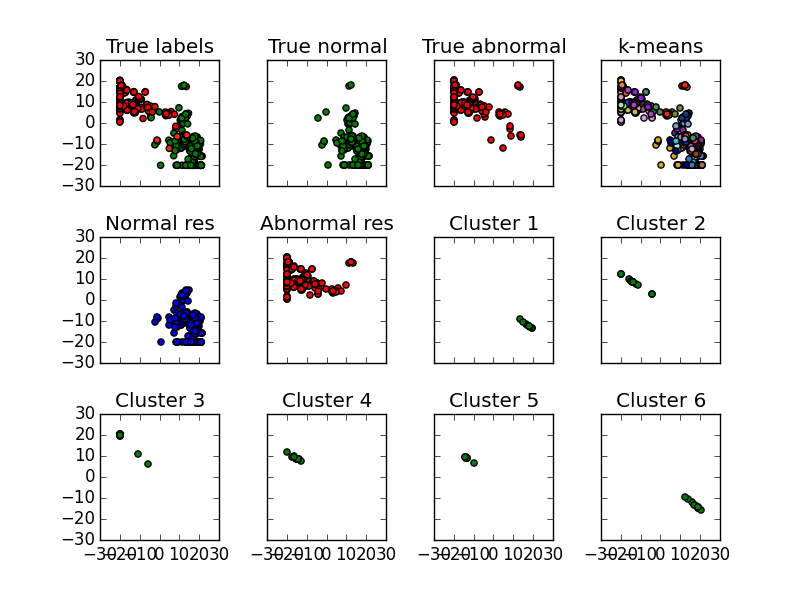
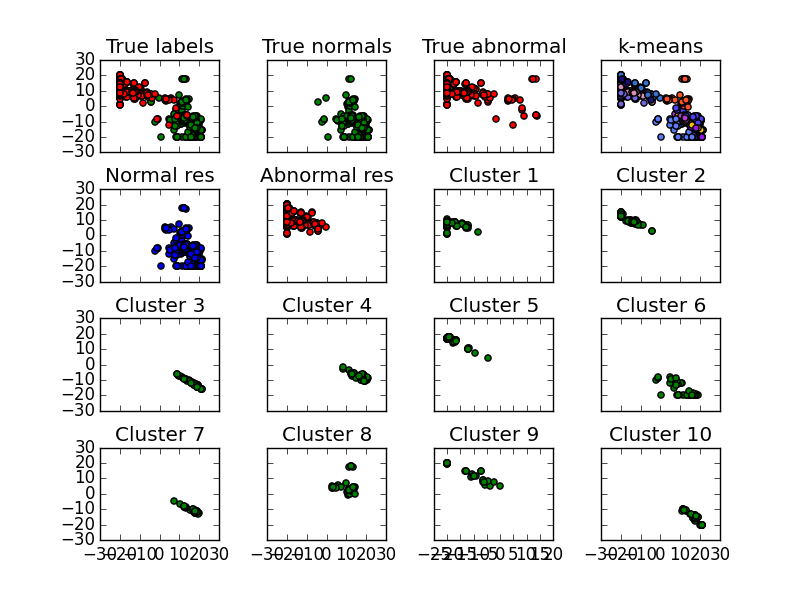
Modified new plots

diff --git a/main.py b/main.py
@@ -1,0 +1,305 @@
+# -*- coding: utf-8 -*-
+"""
+http://www.astroml.org/sklearn_tutorial/dimensionality_reduction.html
+"""
+print (__doc__)
+
+import numpy as np
+import copy
+
+import matplotlib
+import matplotlib.mlab
+import matplotlib.pyplot as plt
+from matplotlib import gridspec
+import pandas as pd
+from sklearn.cluster import KMeans
+from sklearn.cluster import SpectralClustering
+from sklearn.metrics import confusion_matrix
+
+import nslkdd.preprocessing as preprocessing
+import nslkdd.data.model as model
+from nslkdd.get_kdd_dataframe import attack_types
+from nslkdd.get_kdd_dataframe import df_by_attack_type
+import sugarbee.reduction as reduction
+import sugarbee.distance as distance
+import sugarbee.affinity as affinity
+import sugarbee.solver as solver
+
+from autosp import predict_k
+import colorhex
+
+plot_lim_max = 30
+plot_lim_min = -30
+
+def plot_true_labels(ax, data_per_true_labels, title="", highlight_point = None):
+    ax.set_title("True labels")
+    for i, p in enumerate(data_per_true_labels) :
+        x = [t[0] for t in p]
+        y = [t[1] for t in p]
+        x = np.array(x)
+        y = np.array(y)
+        colors = []
+        if highlight_point == None :
+            if i == model.attack_normal:
+                colors.append('g')
+            else :
+                colors.append('r')
+#            for _ in range(len(x)):
+#                colors.append(colorhex.codes[i])
+        else :
+            for _ in range(len(x)):
+                if i == highlight_point :
+                    colors.append(colorhex.codes[i])
+                elif i == model.attack_normal:
+                    colors.append('g')
+                else :
+                    colors.append('r')
+
+        ax.scatter(x, y, c=colors)
+
+def plot_normal_label(ax, data_per_true_labels, title=""):
+    ax.set_title(title)
+    for i, p in enumerate(data_per_true_labels) :
+        x = [t[0] for t in p]
+        y = [t[1] for t in p]
+        x = np.array(x)
+        y = np.array(y)
+        if i == model.attack_normal:
+            ax.scatter(x, y, c='g')
+
+def plot_abnormal_label(ax, data_per_true_labels, title=""):
+    ax.set_title(title)
+    for i, p in enumerate(data_per_true_labels) :
+        x = [t[0] for t in p]
+        y = [t[1] for t in p]
+        x = np.array(x)
+        y = np.array(y)
+        if i != model.attack_normal:
+            ax.scatter(x, y, c='r')
+
+def print_confusion_matrix(true_values, clusters, res):
+    # confusion matrix
+    y_true = []
+    y_pred = []
+
+    for i in true_values :
+        if i == model.attack_normal :
+            y_true.append(0)
+        else :
+            y_true.append(1)
+
+    for i in res :
+        if clusters[i] >= 0 :
+            y_pred.append(0)
+        else :
+            y_pred.append(1)
+
+    m = confusion_matrix(list(y_true), list(y_pred))
+
+    s1 = m[0][0] + m[0][1]
+    s2 = m[1][1] + m[1][0]
+
+    print m
+    print "true_positive : " + str(m[0][0]) + " (" + str(m[0][0]*1.0 / s1) + ")"
+    print "true_negative : " + str(m[1][1]) + " (" + str(m[1][1]*1.0 / s2) + ")"
+    print "false_positive : " + str(m[1][0]) + " (" + str(m[1][0]*1.0 / s2) + ")"
+    print "false_negative : " + str(m[0][1]) + " (" + str(m[0][1]*1.0 / s1) + ")"
+
+def test_clustering(df, gmms, title="", save_to_file=False, highlight_point=None):
+    df_train = copy.deepcopy(df)
+    df_train.drop('attack',1,inplace=True)
+    df_train.drop('difficulty',1,inplace=True)
+
+    # from about 30 dimension to 2 dimension
+    proj = reduction.gmm_reduction(df_train, headers, gmms)
+    cproj = copy.deepcopy(proj)
+
+    # data_per_true_labels : try to make sort of dictionary per each label
+    data_per_true_labels = []
+    for i in range( len(attacks) ):
+        data_per_true_labels.append([])
+
+    true_attack_types = df["attack"].values.tolist()
+    for i, d in enumerate(cproj):
+        data_per_true_labels[true_attack_types[i]].append(d)
+
+    A = affinity.get_affinity_matrix(cproj, metric_method=distance.cosdist, knn=8)
+#    A = affinity.get_affinity_matrix(cproj, metric_method=distance.dist, metric_param='euclidean', knn=8)
+
+    k = predict_k(A)
+    print "supposed k : " + str(k)
+
+    lim = 10; #int(len(df) * 0.01)
+    if k == 1 :
+        k = lim
+    if k > lim :
+        k = lim
+    print "Total number of clusters : " + str(k)
+
+    sc = SpectralClustering(n_clusters=k,
+                            affinity="precomputed",
+                            assign_labels="kmeans").fit(A)
+    res = sc.labels_
+    print res
+
+    # figure setting
+    fig, axarr = plt.subplots(4, 4, sharex='col', sharey='row')
+    plt.subplots_adjust(wspace=0.4, hspace=0.4)
+    plt.xlim(plot_lim_min, plot_lim_max)
+    plt.ylim(plot_lim_min, plot_lim_max)
+
+    ax1 = axarr[0, 0]
+    ax2 = axarr[0, 1]
+    ax3 = axarr[0, 2]
+    ax4 = axarr[0, 3]
+    ax5 = axarr[1, 0]
+    ax6 = axarr[1, 1]
+    ax7 = axarr[1, 2]
+    ax8 = axarr[1, 3]
+    ax9 = axarr[2, 0]
+    ax10 = axarr[2, 1]
+    ax11 = axarr[2, 2]
+    ax12 = axarr[2, 3]
+    ax13 = axarr[3, 0]
+    ax14 = axarr[3, 1]
+    ax15 = axarr[3, 2]
+    ax16 = axarr[3, 3]
+
+    ##############################################################
+    # plot true labels
+    plot_true_labels(ax1, data_per_true_labels, "True labels")
+    plot_normal_label(ax2, data_per_true_labels, "True normals")
+    plot_abnormal_label(ax3, data_per_true_labels, "True abnormal")
+
+    ##############################################################
+    # plot predicted labels
+    """
+    As we already know training set labels, we can seperate normal data from "known" abnormal data and "unknown" abnormal data.
+    """
+    clusters = [0] * k
+    for i, p in enumerate(cproj):
+        true_label = true_attack_types[i]
+        if true_label == model.attack_normal :
+            clusters[ res[i] ] = clusters[ res[i] ] + 1
+        else :
+            clusters[ res[i] ] = clusters[ res[i] ] - 1
+
+    ##############################################################
+    ax4.set_title("k-means")
+    for i, p in enumerate(cproj):
+        ax4.scatter(p[0], p[1], c=colorhex.codes[ res[i] ])
+
+    ##############################################################
+    ax5.set_title("Normal res")
+    for i, p in enumerate(cproj):
+        if clusters[ res[i] ] >= 0 :
+            ax5.scatter(p[0], p[1], c='b')
+
+    ##############################################################
+    ax6.set_title("Abnormal res")
+    for i, p in enumerate(cproj):
+        if clusters[ res[i] ] < 0 :
+            ax6.scatter(p[0], p[1], c='r')
+
+    ##############################################################
+    ax7.set_title("Cluster 1")
+    for i, p in enumerate(cproj):
+        if res[i] == 0 :
+            ax7.scatter(p[0], p[1], c='g')
+    ##############################################################
+    ax8.set_title("Cluster 2")
+    for i, p in enumerate(cproj):
+        if res[i] == 1 :
+            ax8.scatter(p[0], p[1], c='g')
+    ##############################################################
+    ax9.set_title("Cluster 3")
+    for i, p in enumerate(cproj):
+        if res[i] == 2 :
+            ax9.scatter(p[0], p[1], c='g')
+    ##############################################################
+    ax10.set_title("Cluster 4")
+    for i, p in enumerate(cproj):
+        if res[i] == 3 :
+            ax10.scatter(p[0], p[1], c='g')
+    ##############################################################
+    ax11.set_title("Cluster 5")
+    for i, p in enumerate(cproj):
+        if res[i] == 4 :
+            ax11.scatter(p[0], p[1], c='g')
+    ##############################################################
+    ax12.set_title("Cluster 6")
+    for i, p in enumerate(cproj):
+        if res[i] == 5 :
+            ax12.scatter(p[0], p[1], c='g')
+    ##############################################################
+    ax13.set_title("Cluster 7")
+    for i, p in enumerate(cproj):
+        if res[i] == 6 :
+            ax13.scatter(p[0], p[1], c='g')
+    ##############################################################
+    ax14.set_title("Cluster 8")
+    for i, p in enumerate(cproj):
+        if res[i] == 7 :
+            ax14.scatter(p[0], p[1], c='g')
+    ##############################################################
+    ax15.set_title("Cluster 9")
+    for i, p in enumerate(cproj):
+        if res[i] == 8 :
+            ax15.scatter(p[0], p[1], c='g')
+    ##############################################################
+    ax16.set_title("Cluster 10")
+    for i, p in enumerate(cproj):
+        if res[i] == 9 :
+            ax16.scatter(p[0], p[1], c='g')
+    ##############################################################
+
+    print_confusion_matrix(true_attack_types, clusters, res)
+
+    if save_to_file == True :
+        fig.savefig("./plots/results/"+title+".png")
+    else :
+        plt.show()
+    plt.close()
+
+if __name__ == '__main__':
+    """ Anomaly detection with spectral clustering algorithm.
+    First training set only, to see what would happen with only known classes
+    Next with test set, to see what would happen with only unknown classes
+    """
+    import time
+    start = time.time()
+
+    headers, attacks = preprocessing.get_header_data()
+    headers.remove('protocol_type')
+    headers.remove('attack')
+    headers.remove('difficulty')
+
+    df_training_20, df_training_full, gmms_20, gmms_full = preprocessing.get_preprocessed_training_data()
+    df_test_20, df_test_full, gmms_test_20, gmms_test_full = preprocessing.get_preprocessed_test_data()
+
+    # with training-set
+    df1 = df_training_20[0:500]
+    gmms = gmms_20
+    title = "training20_only"
+    print "#################################################"
+    print title
+    test_clustering(df1, gmms, title=title, save_to_file=True)
+
+    # with test-set
+    dataset_description = "training20_test20"
+    for attack_type_index, attack_type in enumerate(model.attack_types) :
+        if attack_type_index <= model.attack_normal :
+            continue
+        df2 = df_by_attack_type(df_test_20, attack_type_index)
+        df2 = df2[0:50]
+        df = pd.concat([df1, df2])
+        title = dataset_description + "_" + attack_type
+        print "#################################################"
+        print title
+        print len(df1)
+        print len(df2)
+        test_clustering(df, gmms, title=title, save_to_file=True, highlight_point=attack_type_index)
+
+    elapsed = (time.time() - start)
+    print "done in %s seconds" % (elapsed)
+
